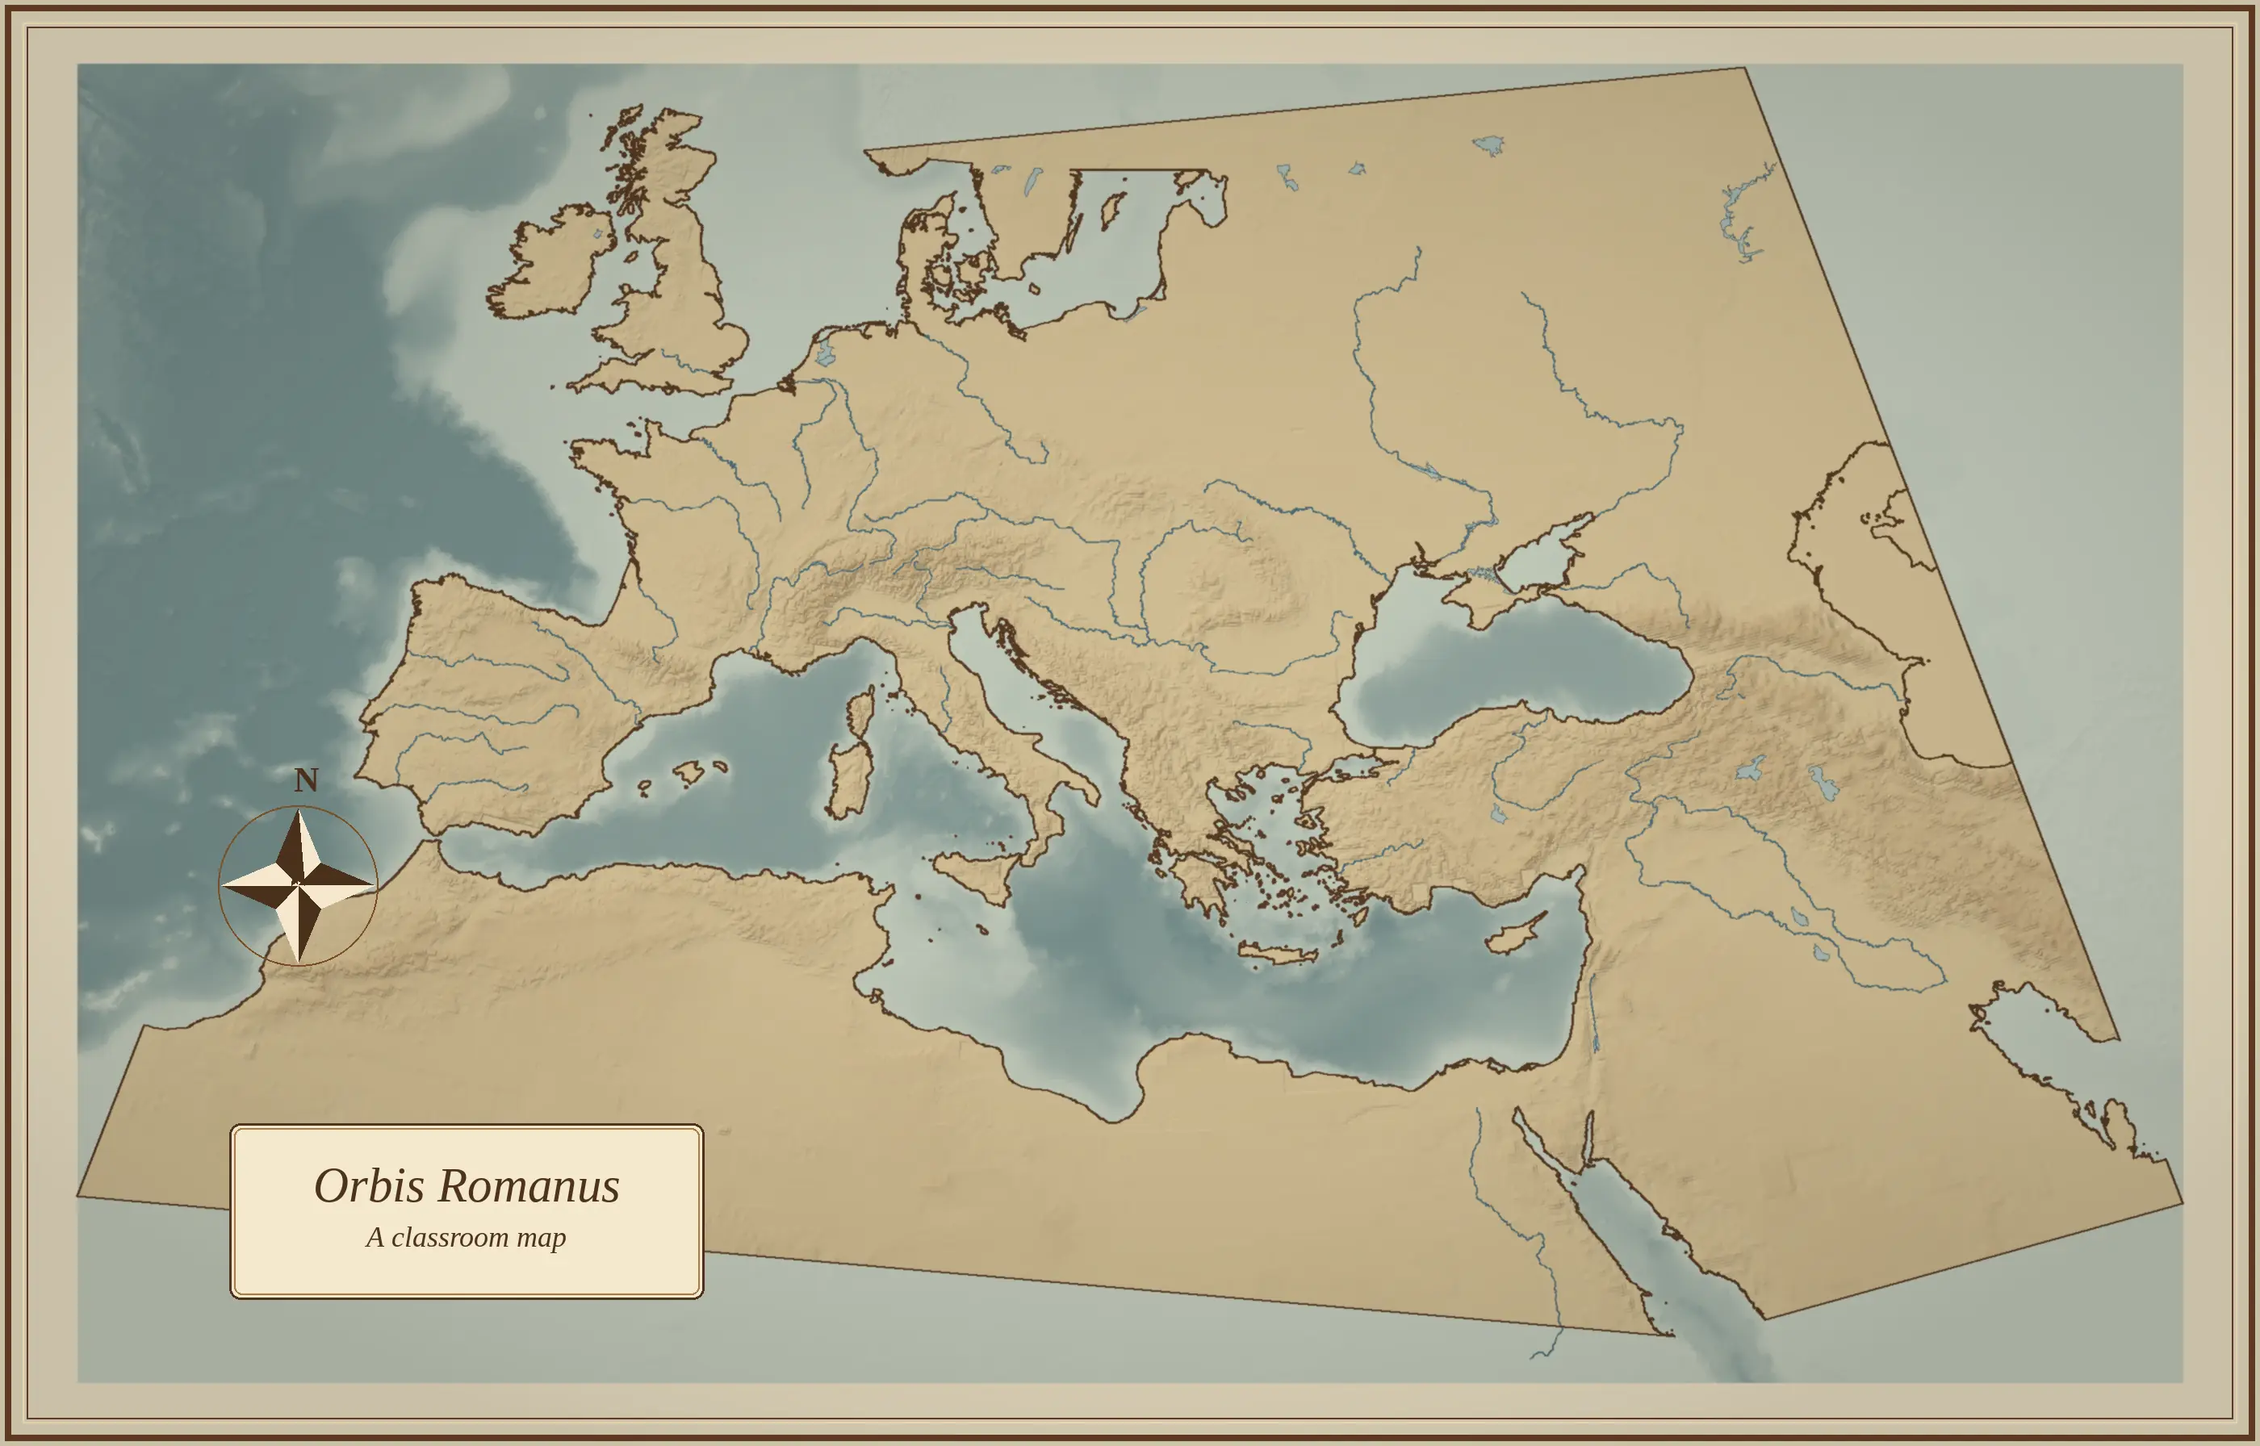
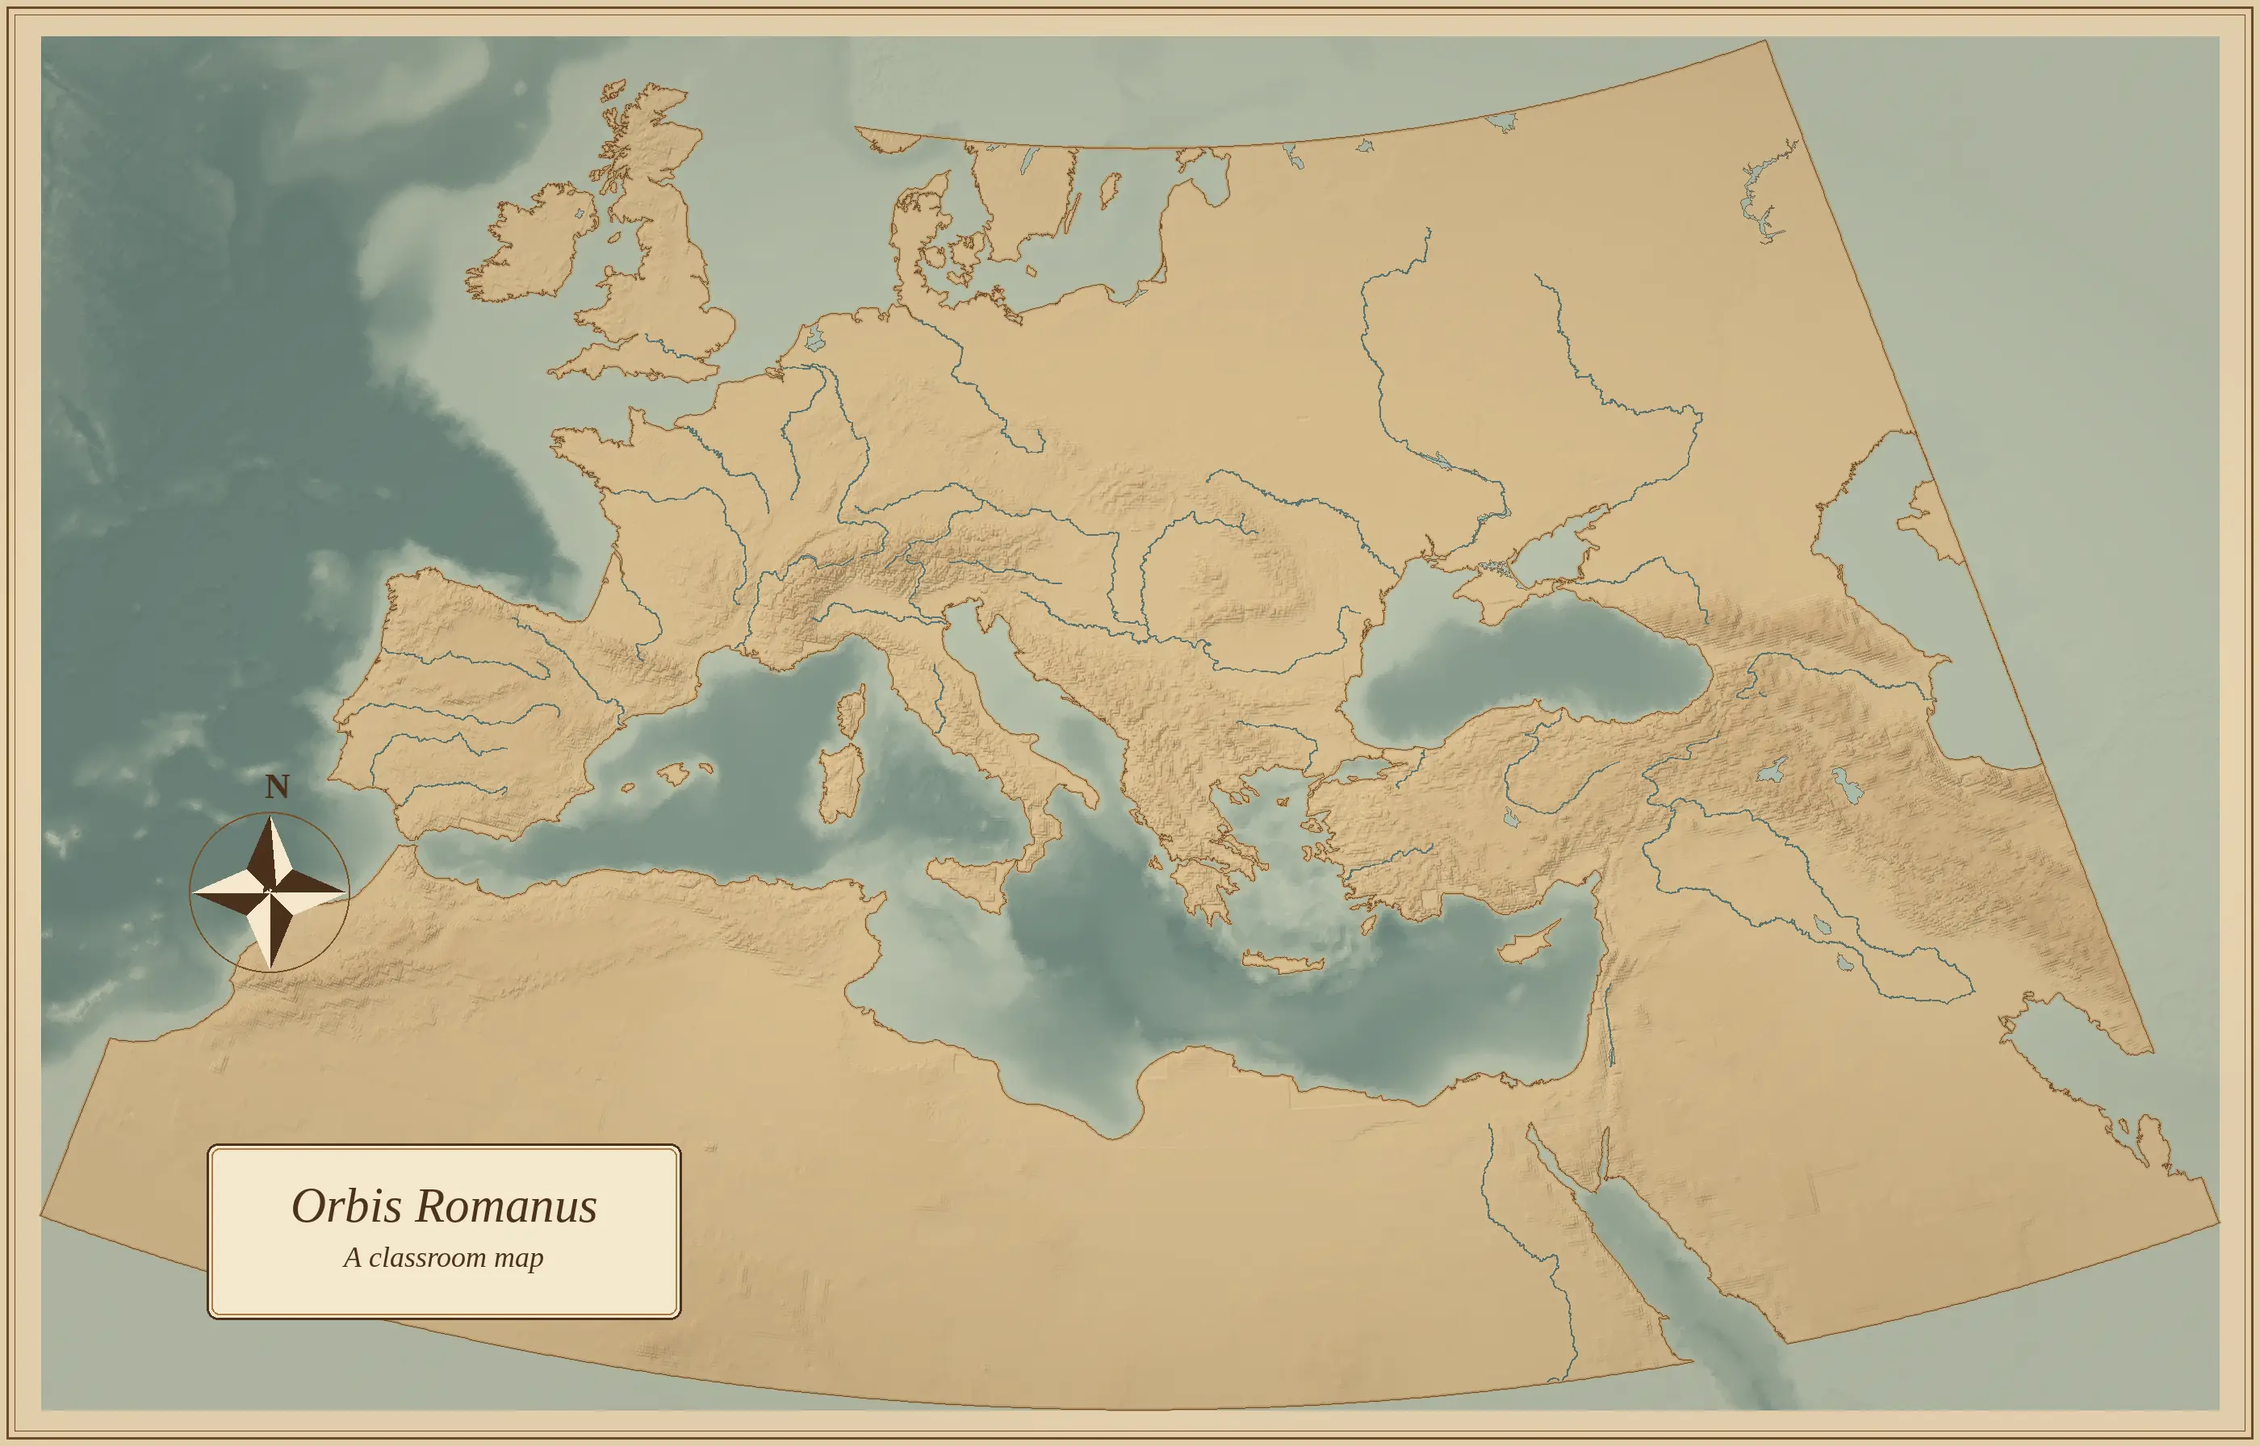
Fix the Roman map coastline and open on the whole sea.
Clip edges now follow the projected parallel, including the ring's closing segment, so Scandinavia no longer fills the Baltic. Inland seas such as the Caspian stay water. The desktop view fits the whole map, and a phone opens centered on Italy.

diff --git a/roman-world.js b/roman-world.js
@@ -202,10 +202,10 @@ const ROMAN_MAP_PLACES = [
 const ROMAN_MAP_GEOMETRY = {
   width: 1000,
   height: 640,
-  padX: 34.0,
-  padY: 28.0,
-  contentW: 932.0,
-  contentH: 584.0,
+  padX: 18.0,
+  padY: 16.0,
+  contentW: 964.0,
+  contentH: 608.0,
   lon0: 20.0,
   lat0: 39.0,
   lat1: 31.0,
@@ -216,8 +216,8 @@ const ROMAN_MAP_GEOMETRY = {
   projMaxY: 0.40238531,
   checkLon: 12.496,
   checkLat: 41.903,
-  checkX: 418.91,
-  checkY: 322.85,
+  checkX: 416.13,
+  checkY: 322.96,
   imageWidth: 2800,
   imageHeight: 1792,
   image: 'assets/roman-map.webp'
@@ -420,6 +420,20 @@ function startMapRound() {
   RomanWorldState.mapNote = 'Click the dot for the place named below.';
 }
 
+const ROMAN_MAP_SEA_TITLES = [
+  { latin: 'Oceanus Atlanticus', lon: -8.4, lat: 42.5 },
+  { latin: 'Mare Nostrum', lon: 16.2, lat: 33.6 },
+  { latin: 'Mare Internum', lon: 27.2, lat: 34.6 }
+];
+
+function mapSeaTitleMarkup() {
+  if (!RomanWorldState.mapLabels) return '';
+  return ROMAN_MAP_SEA_TITLES.map((title) => {
+    const point = romanMapProject(title.lon, title.lat);
+    return `<span class="roman-map-sea" style="left:${(point.x / 10).toFixed(2)}%;top:${(point.y / 6.4).toFixed(2)}%">${escapeHtml(title.latin)}</span>`;
+  }).join('');
+}
+
 function mapLeaderMarkup() {
   const marks = ROMAN_MAP_PLACES.map((place) => {
     if (Math.hypot(place.tapX - place.x, place.tapY - place.y) < 8) return '';
@@ -445,6 +459,7 @@ function renderRomanMap() {
     if (hidden) classes.push('is-dim');
     if (place.tapX > 860) classes.push('is-label-left');
     if (place.tapY < 40) classes.push('is-label-below');
+    if (place.group === 'waters') classes.push('is-water');
     if (Math.hypot(place.tapX - place.x, place.tapY - place.y) >= 8) classes.push('has-leader');
     return `
       <button
@@ -468,10 +483,11 @@ function renderRomanMap() {
         <div class="roman-map-stage">
           <img class="roman-map-image" src="${ROMAN_MAP_GEOMETRY.image}" width="${ROMAN_MAP_GEOMETRY.imageWidth}" height="${ROMAN_MAP_GEOMETRY.imageHeight}" alt="Parchment map of the lands around the Mediterranean, from the Atlantic to Mesopotamia, with coastlines, rivers, lakes, and shaded relief.">
           ${mapLeaderMarkup()}
+          ${mapSeaTitleMarkup()}
           ${dots}
         </div>
       </div>
-      <p class="roman-map-pan">Slide the map to look around the sea.</p>
+      <p class="roman-map-pan">Slide the map to look around Italy and the rest of the sea.</p>
       <p class="roman-map-credit">Coastlines, rivers, and lakes from Natural Earth, public domain. Relief from NOAA ETOPO5, public domain. Each place is drawn at its latitude and longitude.</p>
     </section>
   `;
@@ -479,19 +495,28 @@ function renderRomanMap() {
 
 function captureMapScroll() {
   const frame = document.querySelector('#romanWorldStage .roman-map-frame');
-  if (frame) RomanWorldState.mapScroll = frame.scrollLeft;
+  if (!frame) return;
+  RomanWorldState.mapScroll = { left: frame.scrollLeft, top: frame.scrollTop };
 }
 
 function restoreMapScroll() {
   const frame = document.querySelector('#romanWorldStage .roman-map-frame');
   if (!frame) return;
-  if (typeof RomanWorldState.mapScroll === 'number') {
-    frame.scrollLeft = RomanWorldState.mapScroll;
+  if (RomanWorldState.mapScroll && typeof RomanWorldState.mapScroll.left === 'number') {
+    frame.scrollLeft = RomanWorldState.mapScroll.left;
+    frame.scrollTop = RomanWorldState.mapScroll.top;
     return;
   }
-  const rome = ROMAN_MAP_PLACES.find((place) => place.id === 'roma');
-  if (!rome) return;
-  frame.scrollLeft = Math.max(0, frame.scrollWidth * (rome.x / 1000) - frame.clientWidth / 2);
+  const fits = frame.scrollWidth <= frame.clientWidth + 2 && frame.scrollHeight <= frame.clientHeight + 2;
+  if (fits) {
+    frame.scrollLeft = 0;
+    frame.scrollTop = 0;
+    return;
+  }
+  const italy = ROMAN_MAP_PLACES.find((place) => place.id === 'italia');
+  if (!italy) return;
+  frame.scrollLeft = Math.max(0, frame.scrollWidth * (italy.x / 1000) - frame.clientWidth / 2);
+  frame.scrollTop = Math.max(0, frame.scrollHeight * (italy.y / 640) - frame.clientHeight / 2);
 }
 
 function renderRomanWorld() {

diff --git a/styles.css b/styles.css
@@ -1114,11 +1114,10 @@ input {
 .roman-map-frame {
   position: relative;
   max-width: 100%;
-  max-height: 70vh;
   overflow: auto;
   border-radius: 16px;
-  background: #ece0c4;
-  box-shadow: inset 0 0 0 1px rgba(92, 58, 32, 0.28);
+  background: #f3e0ba;
+  box-shadow: inset 0 0 0 1px rgba(110, 72, 40, 0.35);
 }
 
 .roman-map-frame:focus-visible {
@@ -1128,7 +1127,7 @@ input {
 
 .roman-map-stage {
   position: relative;
-  width: max(100%, 2800px);
+  width: 100%;
   aspect-ratio: 1000 / 640;
 }
 
@@ -1225,6 +1224,25 @@ input {
   top: 32px;
 }
 
+.roman-map-dot.is-water span,
+.roman-map-sea {
+  background: transparent;
+  color: #3f534c;
+  font-size: 16px;
+  letter-spacing: 0.04em;
+  text-shadow: 0 0 3px rgba(244, 228, 196, 0.95), 0 0 3px rgba(244, 228, 196, 0.95);
+}
+
+.roman-map-sea {
+  position: absolute;
+  transform: translate(-50%, -50%);
+  font-family: Palatino, "Palatino Linotype", Georgia, "Times New Roman", serif;
+  font-style: italic;
+  font-weight: 600;
+  white-space: nowrap;
+  pointer-events: none;
+}
+
 .roman-map-dot.is-dim {
   opacity: 0.28;
 }
@@ -1244,9 +1262,19 @@ input {
   color: #9a3412;
 }
 
-@media (min-width: 2860px) {
+@media (min-width: 761px) {
   .roman-map-pan {
     display: none;
+  }
+}
+
+@media (max-width: 760px) {
+  .roman-map-frame {
+    max-height: 68vh;
+  }
+
+  .roman-map-stage {
+    width: 1400px;
   }
 }
 

diff --git a/scripts/build-roman-map.py b/scripts/build-roman-map.py
@@ -38,8 +38,8 @@ LOGICAL_H = 640.0
 SCALE = 2.8
 WIDTH = int(LOGICAL_W * SCALE)
 HEIGHT = int(LOGICAL_H * SCALE)
-PAD_X = 34.0
-PAD_Y = 28.0
+PAD_X = 18.0
+PAD_Y = 16.0
 CONTENT_W = LOGICAL_W - PAD_X * 2
 CONTENT_H = LOGICAL_H - PAD_Y * 2
 
@@ -178,10 +178,61 @@ def rings_of(shape):
         yield shape.points[parts[index]:parts[index + 1]]
 
 
+def boundary_edges(point):
+    lon, lat = point
+    edges = set()
+    if abs(lon - LON_MIN) < 1e-4:
+        edges.add('west')
+    if abs(lon - LON_MAX) < 1e-4:
+        edges.add('east')
+    if abs(lat - LAT_MIN) < 1e-4:
+        edges.add('south')
+    if abs(lat - LAT_MAX) < 1e-4:
+        edges.add('north')
+    return edges
+
+
+def densify_boundary(points, step=0.12):
+    """Follow clip edges in lon/lat so a parallel does not become one straight chord.
+
+    The closing edge matters: Sutherland-Hodgman leaves the ring unclosed, and
+    that last segment is often the long edge along the map border.
+    """
+    if len(points) < 2:
+        return points
+    sequence = list(points)
+    if sequence[0] != sequence[-1]:
+        sequence.append(sequence[0])
+    output = [sequence[0]]
+    for current in sequence[1:]:
+        previous = output[-1]
+        shared = boundary_edges(previous) & boundary_edges(current)
+        span = max(abs(current[0] - previous[0]), abs(current[1] - previous[1]))
+        if shared and span > step:
+            pieces = int(span / step)
+            for index in range(1, pieces):
+                t = index / pieces
+                output.append((
+                    previous[0] + t * (current[0] - previous[0]),
+                    previous[1] + t * (current[1] - previous[1])
+                ))
+        output.append(current)
+    if len(output) > 1 and output[-1] == output[0]:
+        output.pop()
+    return output
+
+
+def signed_area(ring):
+    area = 0.0
+    for (x1, y1), (x2, y2) in zip(ring, ring[1:] + ring[:1]):
+        area += x1 * y2 - x2 * y1
+    return area / 2.0
+
+
 def project_ring(ring):
     if len(ring) < 3 or not bbox_hits(ring):
         return []
-    clipped = clip_ring(thin(ring, 0.012))
+    clipped = densify_boundary(clip_ring(thin(ring, 0.012)))
     if len(clipped) < 3:
         return []
     lon = np.array([point[0] for point in clipped])
@@ -264,9 +315,9 @@ def build(land_path, rivers_path, lakes_path, etopo_path):
     elevation[inside] = sample_etopo(grid, lat[inside], lon[inside])
     shade = hillshade(elevation)
 
-    paper = np.array([236, 224, 196], dtype=np.float32)
-    shallow = np.array([198, 206, 190], dtype=np.float32)
-    deep = np.array([118, 142, 140], dtype=np.float32)
+    paper = np.array([244, 224, 186], dtype=np.float32)
+    shallow = np.array([190, 198, 176], dtype=np.float32)
+    deep = np.array([112, 136, 126], dtype=np.float32)
     depth = np.clip(-elevation / 4200.0, 0, 1) ** 0.65
     sea = shallow * (1 - depth[..., None]) + deep * depth[..., None]
     sea *= (0.94 + 0.06 * shade)[..., None]
@@ -277,29 +328,44 @@ def build(land_path, rivers_path, lakes_path, etopo_path):
     raster = Image.fromarray(np.clip(image, 0, 255).astype(np.uint8), 'RGB')
     draw = ImageDraw.Draw(raster)
 
-    land_fill = (214, 186, 132)
-    land_rings = []
+    land_fill = (226, 196, 142)
+    land_shells = []
+    land_holes = []
     land_reader = shapefile.Reader(str(land_path))
     for shape in land_reader.shapes():
-        for ring in rings_of(shape):
+        source_rings = list(rings_of(shape))
+        if not source_rings:
+            continue
+        shell_area = max((signed_area(ring) for ring in source_rings), key=lambda value: abs(value))
+        shell_sign = 1 if shell_area >= 0 else -1
+        for ring in source_rings:
+            area = signed_area(ring)
+            if abs(area) < 0.05:
+                continue
             projected = project_ring(ring)
-            if len(projected) >= 3:
-                land_rings.append(projected)
+            if len(projected) < 3:
+                continue
+            if area == 0 or (area > 0) == (shell_sign > 0):
+                land_shells.append(projected)
                 draw_ring(draw, projected, fill=land_fill)
-    print(f'land rings drawn: {len(land_rings)}')
+            else:
+                land_holes.append(projected)
+    print(f'land shells {len(land_shells)}, holes {len(land_holes)}')
 
     land_mask = np.zeros((HEIGHT, WIDTH), dtype=bool)
     mask_image = Image.new('L', (WIDTH, HEIGHT), 0)
     mask_draw = ImageDraw.Draw(mask_image)
-    for ring in land_rings:
+    for ring in land_shells:
         mask_draw.polygon(ring, fill=255)
+    for ring in land_holes:
+        mask_draw.polygon(ring, fill=0)
     land_mask = np.array(mask_image) > 0
     land_mask &= inside
 
     high = np.clip(elevation / 2800.0, 0, 1)
-    parchment = np.array([236, 214, 168], dtype=np.float32)
-    upland = np.array([154, 112, 68], dtype=np.float32)
-    lowland = np.array([214, 196, 150], dtype=np.float32)
+    parchment = np.array([244, 214, 164], dtype=np.float32)
+    upland = np.array([168, 116, 64], dtype=np.float32)
+    lowland = np.array([228, 202, 148], dtype=np.float32)
     tint = lowland * (1 - high[..., None]) + upland * high[..., None]
     tint = tint * 0.28 + parchment * 0.72
     relief = 0.84 + (shade - 0.5) * 0.28
@@ -309,8 +375,18 @@ def build(land_path, rivers_path, lakes_path, etopo_path):
     raster = Image.fromarray(np.clip(colored, 0, 255).astype(np.uint8), 'RGB')
     draw = ImageDraw.Draw(raster)
 
-    lake_color = (168, 184, 176)
-    lake_edge = (92, 108, 108)
+    hole_sea = sea.copy()
+    hole_mask_image = Image.new('L', (WIDTH, HEIGHT), 0)
+    hole_draw = ImageDraw.Draw(hole_mask_image)
+    for ring in land_holes:
+        hole_draw.polygon(ring, fill=255)
+    hole_mask = (np.array(hole_mask_image) > 0) & inside
+    colored[hole_mask] = hole_sea[hole_mask]
+    raster = Image.fromarray(np.clip(colored, 0, 255).astype(np.uint8), 'RGB')
+    draw = ImageDraw.Draw(raster)
+
+    lake_color = (176, 190, 174)
+    lake_edge = (120, 108, 84)
     lakes_drawn = 0
     lake_reader = shapefile.Reader(str(lakes_path))
     lake_fields = {field[0] for field in lake_reader.fields}
@@ -330,7 +406,7 @@ def build(land_path, rivers_path, lakes_path, etopo_path):
             lakes_drawn += 1
     print(f'lakes drawn: {lakes_drawn}')
 
-    river_color = (78, 108, 116)
+    river_color = (90, 118, 116)
     rivers_drawn = 0
     river_reader = shapefile.Reader(str(rivers_path))
     for shape, record in zip(river_reader.shapes(), river_reader.records()):
@@ -339,7 +415,7 @@ def build(land_path, rivers_path, lakes_path, etopo_path):
         for ring in rings_of(shape):
             if len(ring) < 2 or not bbox_hits(ring):
                 continue
-            clipped = clip_ring(thin(ring, 0.02))
+            clipped = densify_boundary(clip_ring(thin(ring, 0.02)))
             if len(clipped) < 2:
                 continue
             lon = np.array([point[0] for point in clipped])
@@ -347,29 +423,31 @@ def build(land_path, rivers_path, lakes_path, etopo_path):
             x, y = project(lon, lat)
             px, py = to_pixel(x, y)
             line = list(zip(px.tolist(), py.tolist()))
-            draw.line(line, fill=river_color, width=max(2, int(round(SCALE * 0.8))))
+            draw.line(line, fill=river_color, width=2)
             rivers_drawn += 1
     print(f'river parts drawn: {rivers_drawn}')
 
-    coast = (86, 58, 36)
-    for ring in land_rings:
-        draw.line(ring + [ring[0]], fill=coast, width=max(2, int(round(SCALE))))
+    coast = (122, 84, 48)
+    halo = (196, 164, 116)
+    for ring in land_shells + land_holes:
+        closed = ring + [ring[0]]
+        draw.line(closed, fill=halo, width=4)
+    for ring in land_shells + land_holes:
+        draw.line(ring + [ring[0]], fill=coast, width=1)
 
     vignette = np.array(raster).astype(np.float32)
     yy = np.linspace(-1, 1, HEIGHT)[:, None]
     xx = np.linspace(-1, 1, WIDTH)[None, :]
-    falloff = np.clip(1 - (xx * xx * 0.10 + yy * yy * 0.12), 0.86, 1)
+    falloff = np.clip(1 - (xx * xx * 0.06 + yy * yy * 0.08), 0.92, 1)
     vignette *= falloff[..., None]
     raster = Image.fromarray(np.clip(vignette, 0, 255).astype(np.uint8), 'RGB')
-    raster = raster.filter(ImageFilter.SMOOTH)
     draw = ImageDraw.Draw(raster)
 
-    margin = int(10 * SCALE)
-    outer = (92, 58, 32)
-    inner = (232, 214, 176)
-    draw.rectangle((6, 6, WIDTH - 7, HEIGHT - 7), outline=outer, width=max(4, int(3 * SCALE)))
-    draw.rectangle((margin, margin, WIDTH - margin - 1, HEIGHT - margin - 1), outline=inner, width=max(2, int(SCALE)))
-    draw.rectangle((margin + 5, margin + 5, WIDTH - margin - 6, HEIGHT - margin - 6), outline=outer, width=2)
+    outer = (110, 72, 40)
+    inner = (232, 206, 160)
+    draw.rectangle((8, 8, WIDTH - 9, HEIGHT - 9), outline=outer, width=3)
+    draw.rectangle((14, 14, WIDTH - 15, HEIGHT - 15), outline=inner, width=2)
+    draw.rectangle((18, 18, WIDTH - 19, HEIGHT - 19), outline=outer, width=1)
 
     draw_compass(draw)
     draw_cartouche(draw)
